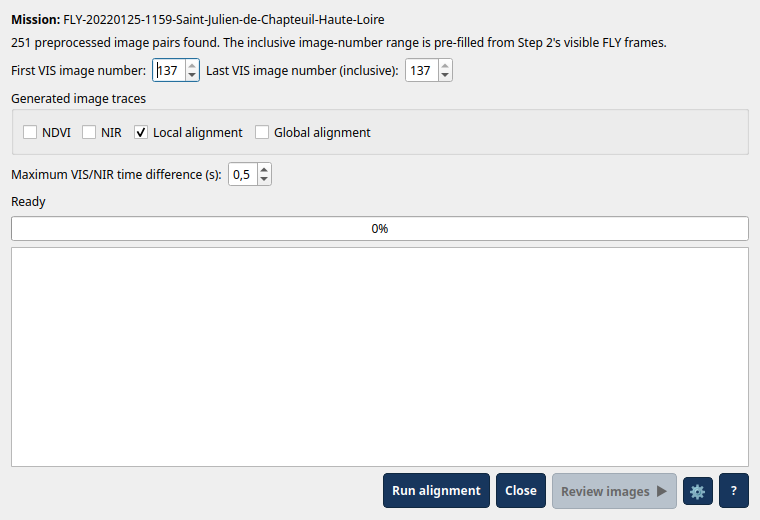
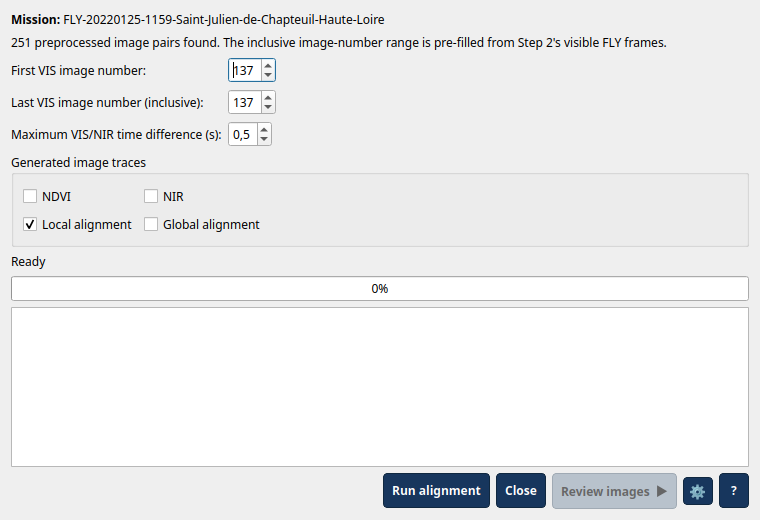
Step 4 window narrower: image range and time difference one per line, image traces in a 2x2 grid (on Windows CI the row of four widgets made it 868 px wide); fit test measured in characters and against a short mission name, not in pixels; manual screenshot

diff --git a/irdrone_wizard/IRD_Interactive_4.py b/irdrone_wizard/IRD_Interactive_4.py
@@ -21,6 +21,8 @@ from PyQt6.QtWidgets import (
     QCheckBox,
     QComboBox,
     QDoubleSpinBox,
+    QFormLayout,
+    QGridLayout,
     QGroupBox,
     QHBoxLayout,
     QLabel,
@@ -644,50 +646,42 @@ class DialogImageProcessing(QDialog):
         intro.setWordWrap(True)
         layout.addWidget(intro)
 
-        range_layout = QHBoxLayout()
-        range_layout.addWidget(QLabel("First VIS image number:"))
+        # One setting per line, the label left of its field: the window stays
+        # narrow whatever the font (a row of four widgets did not).
+        settings_form = QFormLayout()
         self.start_image_number = QSpinBox()
         self.start_image_number.setRange(1, self.max_image_number)
         self.start_image_number.setValue(self.start_image_number_value)
-        range_layout.addWidget(self.start_image_number)
-
-        range_layout.addWidget(QLabel("Last VIS image number (inclusive):"))
+        settings_form.addRow("First VIS image number:", self.start_image_number)
         self.end_image_number = QSpinBox()
         self.end_image_number.setRange(1, self.max_image_number)
         self.end_image_number.setValue(self.end_image_number_value)
-        range_layout.addWidget(self.end_image_number)
-        range_layout.addStretch()
-        layout.addLayout(range_layout)
-
-        traces_group = QGroupBox("Generated image traces")
-        traces_layout = QHBoxLayout(traces_group)
-        self.ndvi_checkbox = QCheckBox("NDVI")
-        self.ndvi_checkbox.setChecked(False)
-        traces_layout.addWidget(self.ndvi_checkbox)
-        self.nir_checkbox = QCheckBox("NIR")
-        self.nir_checkbox.setChecked(False)
-        traces_layout.addWidget(self.nir_checkbox)
-        self.local_checkbox = QCheckBox("Local alignment")
-        self.local_checkbox.setChecked(True)
-        traces_layout.addWidget(self.local_checkbox)
-        self.global_checkbox = QCheckBox("Global alignment")
-        self.global_checkbox.setChecked(False)
-        traces_layout.addWidget(self.global_checkbox)
-        traces_layout.addStretch()
-        layout.addWidget(traces_group)
-
-        time_difference_layout = QHBoxLayout()
-        time_difference_layout.addWidget(
-            QLabel("Maximum VIS/NIR time difference (s):")
-        )
+        settings_form.addRow("Last VIS image number (inclusive):", self.end_image_number)
         self.max_time_difference = QDoubleSpinBox()
         self.max_time_difference.setRange(0.1, 6.0)
         self.max_time_difference.setDecimals(1)
         self.max_time_difference.setSingleStep(0.1)
         self.max_time_difference.setValue(0.5)
-        time_difference_layout.addWidget(self.max_time_difference)
-        time_difference_layout.addStretch()
-        layout.addLayout(time_difference_layout)
+        settings_form.addRow("Maximum VIS/NIR time difference (s):", self.max_time_difference)
+        settings_form.setFieldGrowthPolicy(QFormLayout.FieldGrowthPolicy.FieldsStayAtSizeHint)
+        layout.addLayout(settings_form)
+
+        traces_group = QGroupBox("Generated image traces")
+        traces_layout = QGridLayout(traces_group)
+        self.ndvi_checkbox = QCheckBox("NDVI")
+        self.ndvi_checkbox.setChecked(False)
+        traces_layout.addWidget(self.ndvi_checkbox, 0, 0)
+        self.nir_checkbox = QCheckBox("NIR")
+        self.nir_checkbox.setChecked(False)
+        traces_layout.addWidget(self.nir_checkbox, 0, 1)
+        self.local_checkbox = QCheckBox("Local alignment")
+        self.local_checkbox.setChecked(True)
+        traces_layout.addWidget(self.local_checkbox, 1, 0)
+        self.global_checkbox = QCheckBox("Global alignment")
+        self.global_checkbox.setChecked(False)
+        traces_layout.addWidget(self.global_checkbox, 1, 1)
+        traces_layout.setColumnStretch(2, 1)
+        layout.addWidget(traces_group)
 
         self.status_label = QLabel("Ready")
         self.status_label.setWordWrap(True)

diff --git a/tests/test_step4_stop.py b/tests/test_step4_stop.py
@@ -110,16 +110,24 @@ if __name__ == "__main__":
 
 
 class FitTest(unittest.TestCase):
-    def test_long_mission_path_does_not_widen_the_window(self):
-        root = Path(tempfile.mkdtemp()) / ("very long folder name " * 6).strip() / "Missions 2022"
-        m = root / "FLY-20220125-1159-Saint-Julien-de-Chapteuil-Haute-Loire"
+    @staticmethod
+    def dialog(root, name):
+        m = root / name
         (m / "AerialPhotography" / "VIS").mkdir(parents=True)
         (m / "AerialPhotography" / "shoot_points.json").write_text(json.dumps(
             {"shoot_points": [{"VIS": {"FileName": "VIS_0137.dng"}, "NIR": []}]}))
         (m / "AerialPhotography" / "VIS" / "transfer_info_VIS_dng.json").write_text(json.dumps(
             {"fly": {"listCopiedImages": ["VIS_0137.dng"]}}))
-        d = S4.DialogImageProcessing({"File path mission": str(m)})
-        self.assertLess(d.minimumSizeHint().width(), 600)
+        return S4.DialogImageProcessing({"File path mission": str(m)})
+
+    def test_long_mission_path_does_not_widen_the_window(self):
+        # Widths in characters, not pixels: the fonts differ between machines
+        # (Windows offscreen in the CI measures text about twice as wide).
+        short = self.dialog(Path(tempfile.mkdtemp()), "FLY-1")
+        root = Path(tempfile.mkdtemp()) / ("very long folder name " * 6).strip() / "Missions 2022"
+        d = self.dialog(root, "FLY-20220125-1159-Saint-Julien-de-Chapteuil-Haute-Loire")
+        self.assertLessEqual(d.minimumSizeHint().width(), short.minimumSizeHint().width() + 20)
+        self.assertLess(d.minimumSizeHint().width(), 100 * d.fontMetrics().averageCharWidth())
         screen = APP.primaryScreen().availableGeometry()
         self.assertLessEqual(d.width(), screen.width())
         self.assertLessEqual(d.height(), screen.height())
